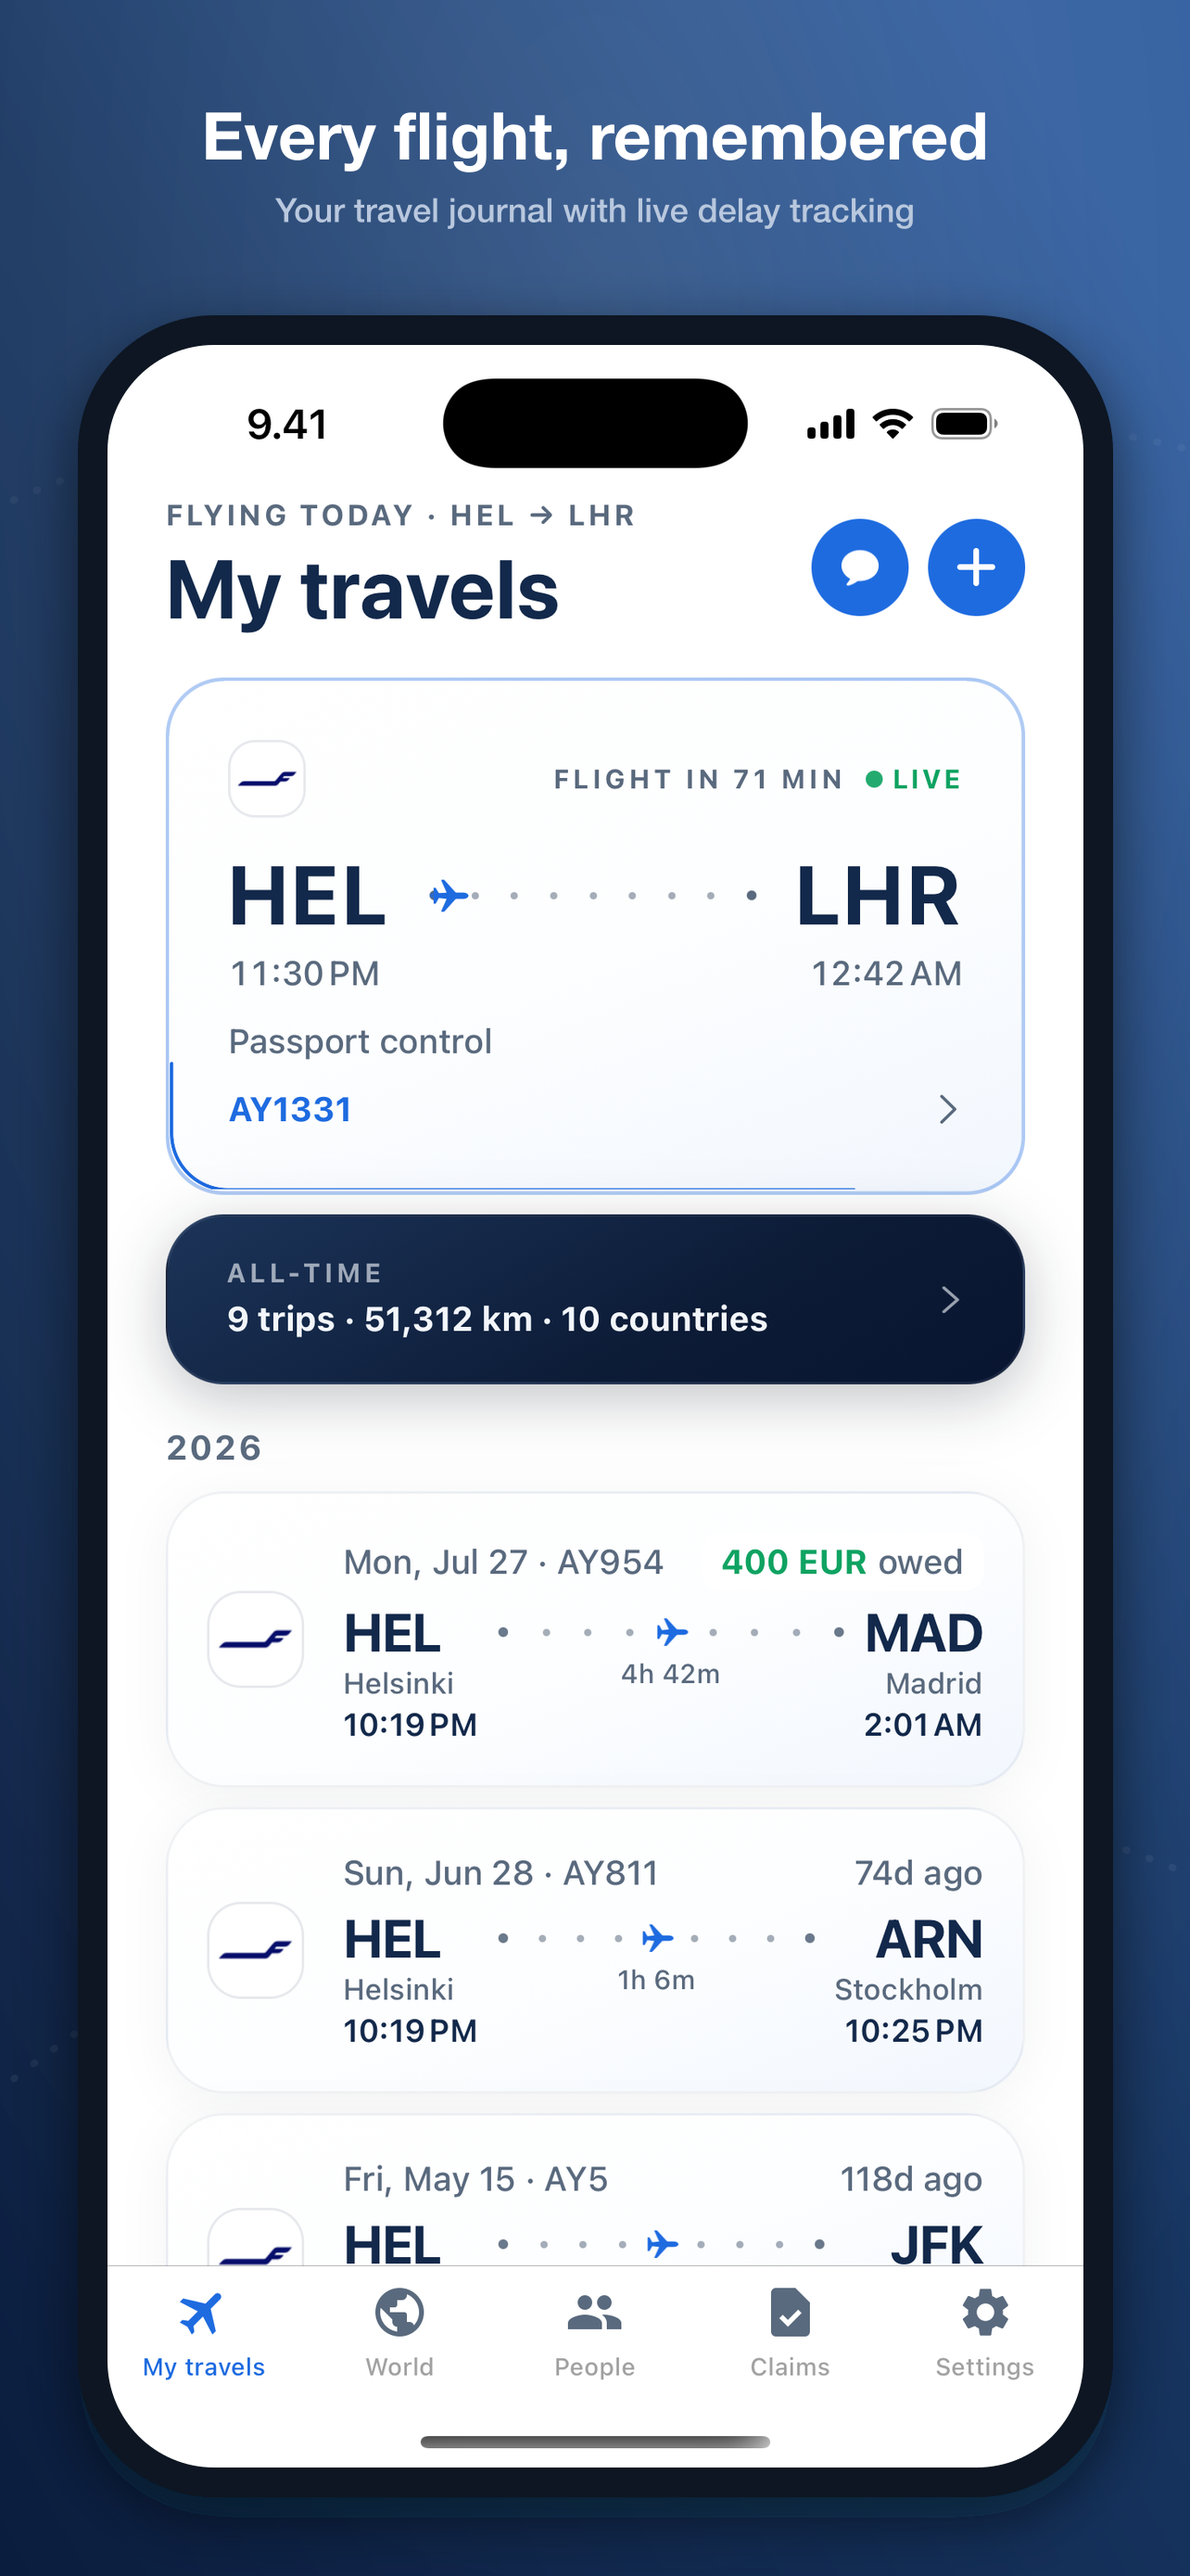
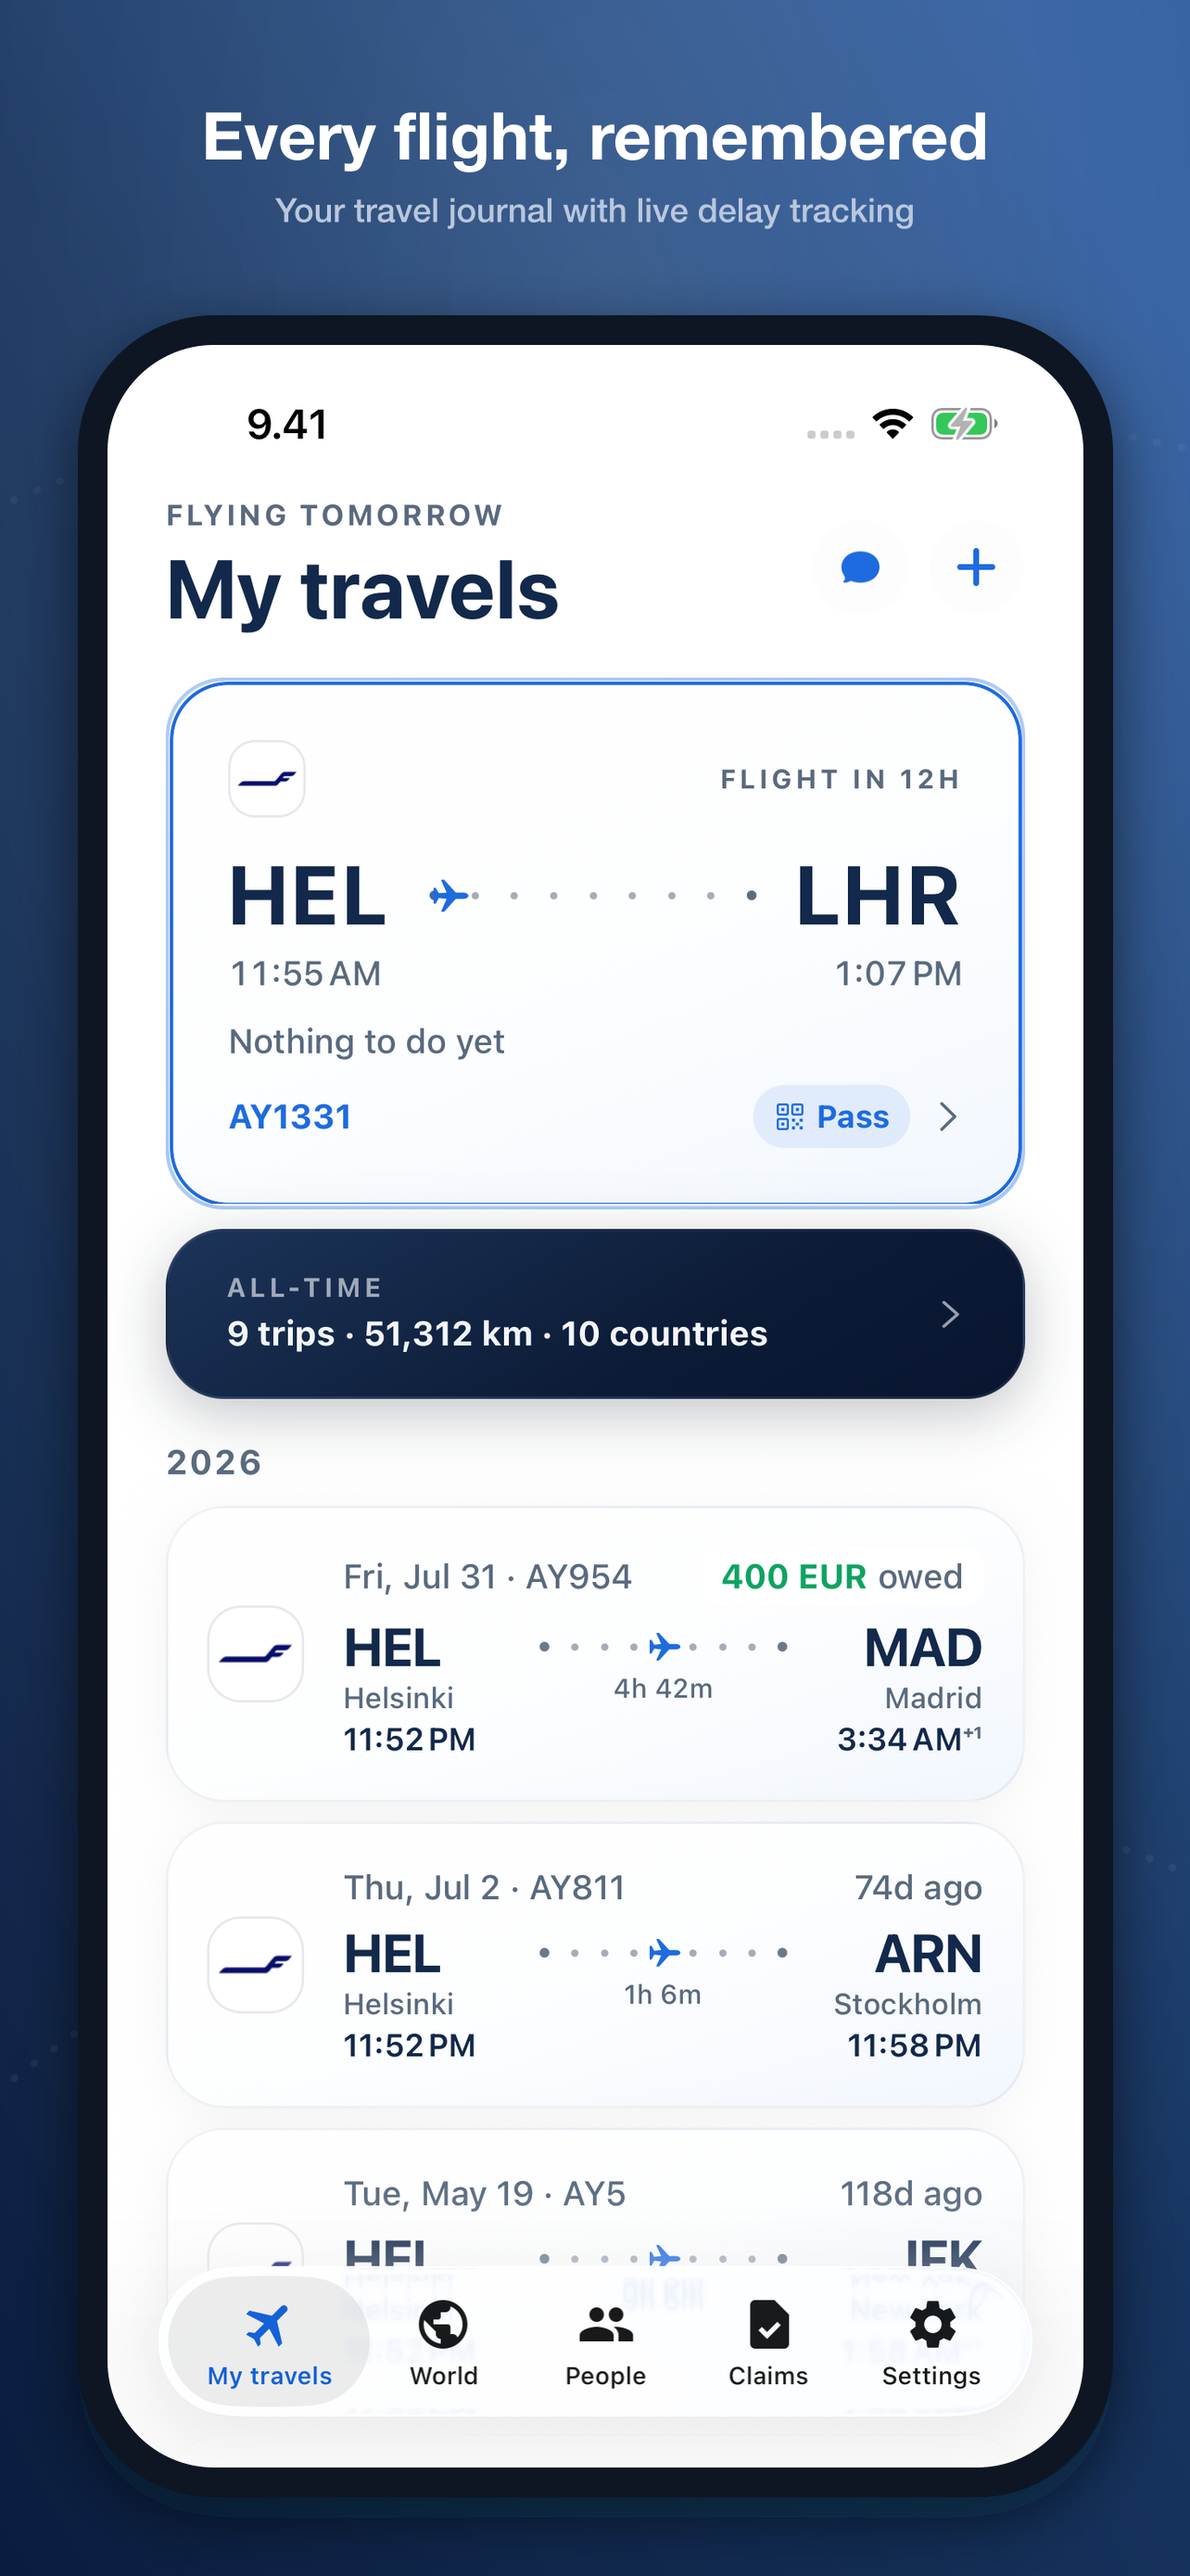
Record 1.0.35 release checks and refresh store screenshots

diff --git a/docs/release-state.md b/docs/release-state.md
@@ -2,6 +2,39 @@
 
 Shared release log for Codex and Claude. Read before a release and prepend dated observations afterwards. Query EAS and both stores before acting; this file records observations, not automatically refreshed status. Follow [release-workflow.md](release-workflow.md).
 
+## 2026-09-15 — 1.0.35 submitted for App Review and Play production
+
+The user requested commit/push, simulator/emulator checks, physical checks **if available**, and new store builds while they slept. That explicit conditional physical scope applies to this release. Neither phone cleared a 1.0.35 physical check: the paired iPhone's live wireless lock queries timed out, and the Pixel was initially reachable but locked, then disconnected with no wireless service advertised. Neither phone was cleared, uninstalled or modified to bypass its lock. Previous 1.0.34 hardware results do not count as 1.0.35 coverage.
+
+| Item | Observed result |
+| --- | --- |
+| Version / source | `1.0.35`, iOS `52`, Android `49`; release commit `6c742cf`, feature `aa962b0`, Clerk remediation record `fe1b157`; all pushed |
+| iOS EAS build | `727072f2-2e92-4be2-8fdf-b044226fc650` — FINISHED |
+| iOS EAS submission | `a106c753-7936-4538-90bc-67ac06616639` — FINISHED |
+| ASC version / build | Version `e7e83990-381f-43d7-a8dd-155c259c02a4`, attached VALID build `5941c9d7-abd7-4a31-8e68-9634110cc202` |
+| App Review | Submission `5828bcee-0fd2-4176-9fc6-16b9bff55a2b` and version both **WAITING_FOR_REVIEW**, observed 2026-09-14 22:04:49 UTC; automatic release after approval |
+| Android EAS build | `f5417baf-754c-4c1f-bac4-b5d80dfcfd13` — FINISHED |
+| Android EAS submission | `af1b2086-fe6e-4263-b5ff-5ede40026680` — FINISHED, internal upload complete |
+| Play production | VersionCode **49**, release `1.0.35 (49)`, **completed** rollout committed and verified on the production track; store review/propagation can delay public availability |
+| Backend | Production and development deployed before builds; both inventories verified all 57 client functions; final read-only production inventory also passed |
+| Hosting | Production deployment `kapqmn5ec9`; `https://flyright.expo.app` verified serving `entry-191471ead55f96989ad02afaecdcb9bf.js`, matching the production export |
+| Preflight | TypeScript, 778 Jest tests in 72 suites, 5 backend-check tests and production inventory passed; focused ESLint and all 24 offline security regressions passed |
+| Guest lookup | A real production anonymous HTTP lookup and the Android Release Add flight UI both returned AY1331 successfully; guest quota/cache/refund/import/retry behavior covered by automated tests |
+| iOS production candidate | iPhone 17 Pro / iOS 26.5 simulator, local Release 1.0.35 (52), production bundle verified; existing reviewer email/password login and two cold starts, account, People, retained trip/photo and World passed |
+| Android production candidate | Original Pixel_9a / Android 17 emulator, local non-debuggable Release 1.0.35 (49), production bundle verified; reviewer email/password login and the two-start signed-in retained-photo flow passed (124 seconds) |
+| Native regressions | Both passed on current Debug builds: iPhone 17 Pro / iOS 26.5 1.0.35 (52), and isolated Android 15 emulator 1.0.35 (49). Each produced exactly three expected requests with matching bytes; `.maestro/out/release/2026-09-14T21-57-36.185Z/report.json` is the complete passing report |
+| Screenshots / notes | Two iPhone panels and two iPad screenshots recaptured from 1.0.35 Release, visually reviewed and uploaded; all 6 iPhone / 3 iPad assets COMPLETE. Reviewer notes PATCHed onto the existing detail, preserving demo credentials. Two Android panels recaptured on the dedicated Android 15 production demo, all Play image sets regenerated/uploaded and the listing edit committed |
+
+**Authentication:** the unnecessary split sign-in/create-account workaround was removed before the feature commit. `src/screens/sign-in.tsx` matches its original `9e17aaf` contents byte for byte. Production's working `bulk` enumeration-protection setting remains in place. Before/after Clerk snapshots confirm that access control, attack protection, email and password configuration are unchanged on both instances. Existing production reviewer email/password sign-in passed on both platforms. New reserved test emails registered successfully through the original native flows on both iOS and Android against development Clerk, and both new sessions survived a cold start. The iOS account also signed out and signed back in with email OTP. The supplemental Android existing-account OTP rerun could not start reliably: Maestro driver initialization timed out, and the built-in UI dump retry also timed out before sign-out. That extra check is not counted as passed; Android existing-account coverage is the successful production reviewer email/password flow. The first Android session assertion ran before startup/navigation completed; after the app loaded, Settings confirmed the same signed-in account. Google/Apple account-provider completion was not newly automated; the user's earlier successful tests are distinct from this release's email checks. No production test mode or relaxed TLS verification was enabled.
+
+**Retained-data fixture:** the dedicated existing production reviewer account now has private trip `release-retained-photo-20260914` and photo `release-retained-photo-image-20260914`. The photo is a local JPEG of the app icon, not a traveller's personal image. These were added before installing 1.0.35 without removing existing SQLite rows. The iOS absolute photo URI referenced the prior app container, and the actual photo rendered after the candidate install. Android's existing development trips and accounts were backed up and retained; only the dedicated account's fixture was added. Keep this fixture for subsequent upgrade checks.
+
+**Emulator recovery:** Android initially suffered system-service/UI-driver timeouts on both an Android 17 emulator and a separate Android 15 test AVD. Updating SDK platform-tools to 37.0.1, cold-booting the original Pixel_9a with `-gpu host -feature -Vulkan -cores 2 -memory 3072`, waking its display and using the SDK adb path restored the normal Maestro flow. The Android 17 production flow passed, but its development build subsequently stalled during first-launch bytecode verification and failed its UI timeout. The same Debug 49 APK launched and passed the native regression on the isolated Android 15 AVD. Both local development versions are current; Android 15 is the active development test target and the original Pixel_9a is stopped with its data intact. No fallback driver or app workaround was retained. Failed attempts remain in the evidence; they are not counted as passes.
+
+Six useful guest-lookup, retained-photo and new-account-session screenshots were copied to Downloads with `FlyRight-1.0.35-` names. The temporary production environment file was removed; original development environment files were retained. No release-announcement push switch was enabled.
+
+Evidence is under `.maestro/out/release-1.0.35/`, with the iOS production candidate under `.maestro/out/release/2026-09-14T20-50-06.307Z/ios/` and the Android candidate under `android-candidate-host/`. Both retained-photo and World screenshots were visually reviewed. Native development tests and locally built production candidates are separate coverage from EAS store binaries and physical phones.
+
 ## 2026-09-14 — wireless iPhone App Shortcuts passed; Siri verification in progress
 
 After the user unlocked the phone, CoreDevice confirmed `localNetwork` / `connected` and installed the production-configured local Release/ad-hoc **1.0.34 (51)** feature build over the existing app. Testing found that a cold assistant launch opened the saved trip without a Back button. The journeys stack now anchors My travels, and the assistant redirect requests that anchor. The corrected build was compiled, signed, configuration-checked and installed over the existing app again. TypeScript and changed-source ESLint passed. The latest binary and bundle hashes are in `navigation-build-hashes.json`, with the installation in `install-navigation-fix.json`.

diff --git a/docs/guest-flight-lookups.md b/docs/guest-flight-lookups.md
@@ -6,6 +6,6 @@ Cached flight results are free. A guest request spends one lookup, including whe
 
 When the daily allowance is spent, the API returns HTTP 429 with `guest_quota_exceeded`. The app offers sign-in for more lookups or manual journal entry. Importing a document preserves every flight, even when some lookups are refused. Flight queries include account identity in their keys so signing in retries a refused lookup under the existing account allowance (20/day for free accounts, 100/day for Pro). The native sign-in screen retains Clerk's original combined flow and the production Clerk setting remains `bulk`.
 
-Delivery requires an EAS Hosting deployment of the API route and an app update for the guest request marker and UI. The Convex quota functions and schema already support this allowance; this feature introduces no new Convex function or schema. It has not been deployed or installed on phones as part of implementation.
+Delivery requires an EAS Hosting deployment of the API route and an app update for the guest request marker and UI. The Convex quota functions and schema already support this allowance; this feature introduces no new Convex function or schema. The API and release notes were deployed to production hosting on 2026-09-14 for 1.0.35. A real guest request returned a flight successfully. Production-configured simulator/emulator candidates passed signed-in retained-photo checks. Physical-phone availability, authentication coverage and store submission status are recorded in [release-state.md](release-state.md).
 
 Validation: 778 Jest tests across 72 suites, TypeScript and focused ESLint checks passed. All 24 offline security regression checks passed, including the actual Convex handler's fifth/sixth lookup boundary, next-day reset, account allowance, cached result, refund and shared-secret enforcement. Component coverage verifies signed-out search, retry after sign-in and document preservation after quota exhaustion. These checks do not constitute physical-device or production-provider acceptance testing.

diff --git a/docs/release-checks.md b/docs/release-checks.md
@@ -49,7 +49,7 @@ npm run release:devices -- --ios <booted-simulator-udid> --android <adb-serial> 
 
 Use release binaries built from the intended release commit and production environment, not Metro clients. For iOS simulator coverage, build the Release configuration from that commit; the App Store IPA cannot run on a simulator. For Android, use the release APK produced from that commit/configuration or the installed Play internal candidate. The runner checks version/build, rejects Android debuggable apps, and inspects bundled public configuration on both platforms for production Convex and Clerk values.
 
-As of 2026-09-14, this candidate flow has been authored but has not passed an end-to-end candidate run. The available simulator uses a development test account and has no retained trip/photo fixture. Set up the dedicated production test account and fixture before the first candidate run; the passing native regression report does not clear this gate.
+The 1.0.35 candidate flow passed on the iOS simulator and Android emulator on 2026-09-14/15 using the existing production reviewer account. Retain private trip `release-retained-photo-20260914` and its photo `release-retained-photo-image-20260914` for subsequent releases. The photo is a local JPEG of the app icon. Account credentials remain in App Store Connect; never put them into committed flows or logs. These simulator/emulator checks do not constitute physical-phone or store-signed-binary coverage.
 
 The Maestro flow cold-starts twice, waits for the expected signed-in account, loads People data from the backend, opens the retained journey/photo, and checks the World screen. It never uses `clearState` or `clearKeychain`. Set up/log into the dedicated account before this gate; do not point it at a personal account. Check screenshots to confirm the retained photo renders correctly. Restore local dev binaries after any release-build testing.
 
